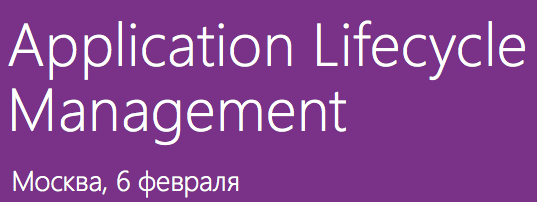
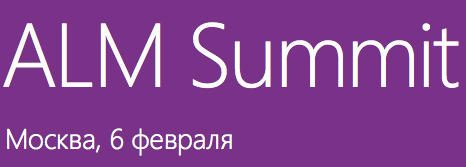
Правки для alm14

Changed region(s): [[0.0, 0.0898, 0.9914, 0.7186], [0.0, 0.7485, 0.5107, 0.988]]

diff --git a/protected/modules/event/widgets/header/views/custom/alm14.php b/protected/modules/event/widgets/header/views/custom/alm14.php
@@ -18,7 +18,7 @@ $event = $this->event;
     transition: background-color 0.5s ease 0s, color 0.5s ease 0s;
     position: absolute;
     left: 0;
-    bottom: 30px;
+    bottom: 70px;
   }
   .alm14-topPicture-register:hover{
     background-color: #3f1044;
@@ -27,7 +27,7 @@ $event = $this->event;
     background: url('/img/event/alm14/title.png') no-repeat scroll 0 0 rgba(0, 0, 0, 0);
     height: 202px;
     position: absolute;
-    left: -10px;
+    left: -5px;
     top: 50px;
     width: 537px;
   }
